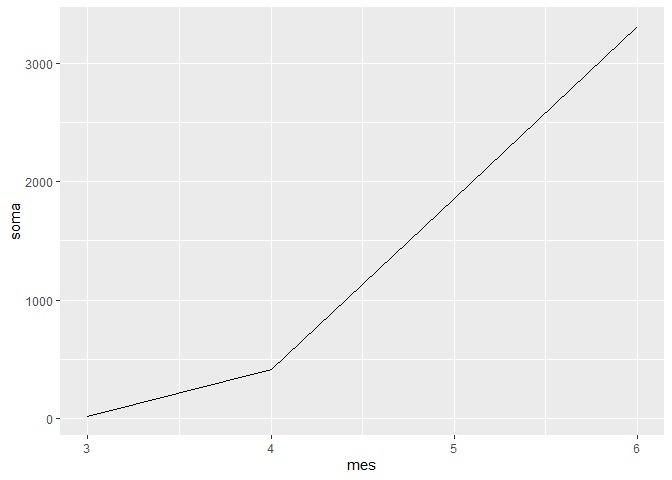
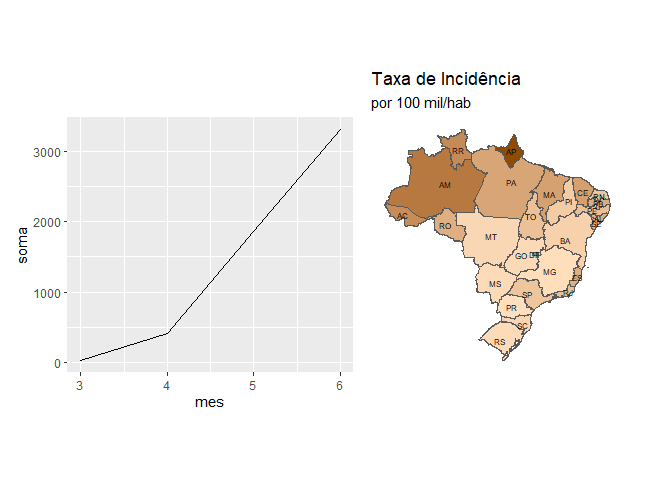
README atualizados com patchwork

diff --git a/README.md b/README.md
@@ -130,33 +130,57 @@ medidas, adotou-se os seguintes padrões:
 
 ## ESTADO DE SÃO PAULO E A COVID-19
 
-### Situação da COVID no Brasil
-
 Como é sabido, o Brasil chegou rapidamente aos países com mais casos no
 mundo. Ao contrário do que se disse, esse número não se deu unicamente
 em razão da grandeza de sua população.
-
-### SP como epicentro nacional
 
 Por outro lado, o Estado de São Paulo foi por muito tempo o “epicentro”
 da pandemia no país. Além de sua alta população, possivelmente houve
 influência da sua alta urbanização dentre muitos outros fatores.
 
-### Bla bla bla
+Válido, portanto, retomar um pouco dos impactos da COVID no país
 
-![](README_files/figure-gfm/graficos_covid_sp-1.png)<!-- -->![](README_files/figure-gfm/graficos_covid_sp-2.png)<!-- -->![](README_files/figure-gfm/graficos_covid_sp-3.png)<!-- -->![](README_files/figure-gfm/graficos_covid_sp-4.png)<!-- -->
+![](README_files/figure-gfm/graficos_e_mapas-covid-1.png)<!-- -->![](README_files/figure-gfm/graficos_e_mapas-covid-2.png)<!-- -->![](README_files/figure-gfm/graficos_e_mapas-covid-3.png)<!-- -->
+
+### Incidência de casos e Mortalidade em SP
+
+Podemos ver que
+
+| Região                | Tx. Incidência | Tx. Mortalidade |
+| :-------------------- | -------------: | --------------: |
+| Araçatuba             |       99.80972 |        5.804358 |
+| Bauru                 |      138.61548 |        4.499831 |
+| Campinas              |      234.37520 |       10.697623 |
+| Capital               |      762.71486 |       46.131157 |
+| Grande São Paulo      |      424.23362 |       32.307980 |
+| Piracicaba            |      134.60449 |        5.919456 |
+| Presidente Prudente   |       85.12163 |        5.007155 |
+| Ribeirão Preto        |      135.88468 |        4.538111 |
+| Santos                |      632.10607 |       27.769470 |
+| São José do Rio Preto |      178.22958 |        6.098886 |
+| São José dos Campos   |      150.07322 |        5.150128 |
+| Sorocaba              |      148.78888 |        7.043992 |
 
 ## O CRIME E O ESTADO DE SÃO PAULO
 
 ### Tendências
 
-![](README_files/figure-gfm/tendencia_crime-1.png)<!-- --> São Paulo,
-crimes, bla bla bla Tendência de queda por diversos fatores
+Dizer alguma coisa que a tendência é de queda
+
+![](README_files/figure-gfm/tendencia_crime-1.png)<!-- -->
+
+São Paulo, crimes, bla bla bla Tendência de queda por diversos fatores
+
 ![](README_files/figure-gfm/tabela_crimes_pandemia-1.png)<!-- -->
 
 ### Criminalidade durante a pandemia
 
 #### Quarentena
+
+``` r
+
+# Tabela mostrando redução
+```
 
 Durou em especial nos primeiros meses
 
@@ -173,11 +197,19 @@ Lesões corporais e estupros - como foram? pessoas em casa
 Acidentes de carro - diminuição da circulação, fechamento dos bares,
 lojas de conveniência, etc
 
+Fechamento das delegacias na pandemia\!\!\!
+
 Mas e os CVLI? Qual o impacto? Esses tendem a ter menos subnotificação
 
 Levantar o ponto da letalidade policial
 
 #### Regiões que tiveram aumento
+
+``` r
+# mapa destacando regiões onde houve aumento
+
+# resgatar série histórica dessas regiões
+```
 
 Explicações para isso
 
@@ -185,7 +217,19 @@ Explicações para isso
 
 Temos regiões com mais crime que covid?
 
+``` r
+# criar um mapa por região
+# colocar se aquela região tem mais mortes por crime ou por covid
+
+# colocar se tem mais incidêcia de casos X crimes contra o patrimônio
+```
+
 Temos uma pandemia de violência?
+
+``` r
+
+# olhar cidades com crimes > covid e < covid
+```
 
 ## Notas
 
